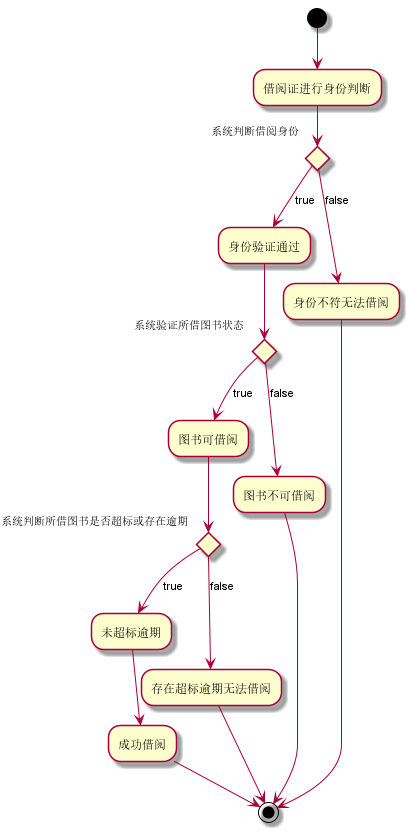
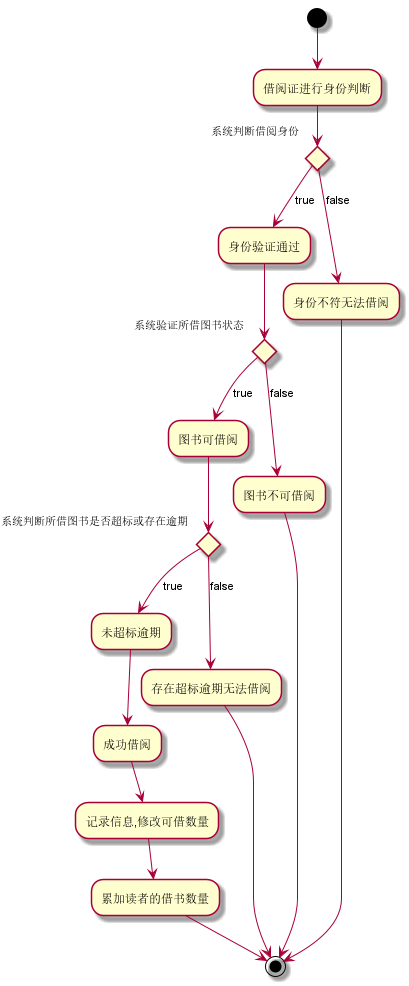
"test2 second commit"

diff --git a/test2/README.md b/test2/README.md
@@ -1,8 +1,7 @@
+学号|班级|姓名|
+|:-------:|:-------------: | :----------:|
+|201710414319|软件(本)17-3|王珍
 # 实验2：图书管理系统用例建模
-
-学号|班级|姓名|照片|
-|:-------:|:-------------: | :----------:|:---:|
-|201710414319|软件(本)17-3|王珍|![flow1](../myself.jpg)|  
 
 ## 1. 图书管理系统的用例关系图
 
@@ -92,7 +91,7 @@ left to right direction
 
 | 业务规则                                                     |
 | ------------------------------------------------------------ |
-| 1.一个读者可以多次借书<br />2.图书状态为不可借的数，不能选择借书<br />3.读者借书数量达标以后，不能再借 |
+| 1.一个读者可以多次借书<br />2.图书状态为不可借的书，不能选择借书<br />3.读者借书数量达标以后，不能再借 |
 
 **“借出图书”用例流程图源码如下：**
 ```puml
@@ -107,6 +106,8 @@ if"系统验证所借图书状态" then
 if"系统判断所借图书是否超标或存在逾期" then
 -->[true]"未超标逾期"
 -->"成功借阅"
+-->"记录信息,修改可借数量"
+-->"累加读者的借书数量"
 -->(*)
 
 else
@@ -177,12 +178,55 @@ stop
 
 | 参与者动作                                                   | 系统行为                                                     |
 | ------------------------------------------------------------ | ------------------------------------------------------------ |
-| 1.读者登入系统； <br />3.读者查询图书状态； <br />5.读者申请预约图书 | 2.系统验证读者身份和借书条件； <br />4.系统返回该图书状态；<br />6.系统更改图书状态，并更新读者可借书数量。 |
+| 1.读者登入系统； <br />3.读者查询图书状态； <br />5.读者申请预约图书 | 2.系统验证读者身份和借书条件； <br />4.系统返回该图书状态；<br />6.系统更改图书状态，并更新可预约书数量。 |
 
 | 备选事件流                                                   |
 | ------------------------------------------------------------ |
-| 2a.读者身份和借书条件不符合<br />①系统提示读者身份和借书条件不符合，用例结束<br />4a.系统返回图书状态<br />①若图书不可借，提示用户该书不可借<br />6a.更新用户借书数量<br />①若借书量超标，则提示不可借<br />②若未超，则累加读者的借书数量 |
+| 2a.读者身份和借书条件不符合<br />①系统提示读者身份和借书条件不符合，用例结束<br />4a.系统返回图书状态<br />①若图书不可借，提示用户该书不可预约<br />6a.更新用户可借书数量<br />①若预约书数量超标，则提示不可预约<br />②若未超，则累加读者的预约书数量 |
 
 | 业务规则                                                     |
 | ------------------------------------------------------------ |
-| 1.一个读者在可借数量内可预约多本书<br />2.图书状态为不可借的数，不可预约<br />3.读者归还书后，可预约新书 |
+| 1.一个读者在可借数量内可预约多本书<br />2.图书状态为不可借的书，不可预约<br />3.超出借书数量下，读者归还书后，可预约新书 |
+
+**“预约图书”用例流程图源码如下：**
+
+```
+@startuml
+(*) -->读者登入系统
+if "系统验证读者身份" then
+-->[true]"读者查询图书状态"
+-->"系统返回该图书状态"
+-->"读者申请预约图书"
+if "系统验证读者借书数量是否超标" then
+
+if "图书不可借" then
+-->[true]"提示用户该书不可预约"
+-->(*)
+else
+if "预约人数超标" then
+-->[true]"提示预约人数超标不可预约"
+-->(*)
+else
+-->[false]"累加预约读者的数量"
+-->" 系统更改图书状态，更新可预约书数量"
+-->"更新用户可借(预约)书的的数量"
+-->(*)
+endif
+endif
+else
+-->[false]"借书数量超标"
+-->"还书"
+-->"读者申请预约图书"
+endif
+
+else
+-->[false]"系统提示读者身份和借书条件不符合"
+-->(*)
+
+
+endif
+@enduml
+
+```
+
+![progress](./img/reserve.png)
